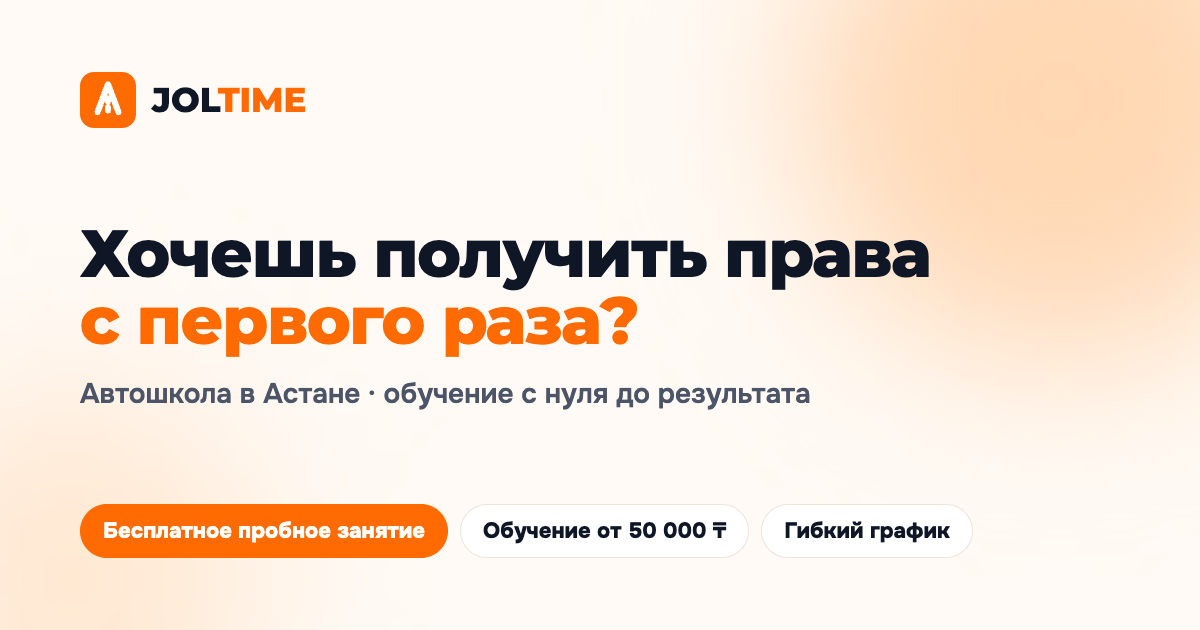
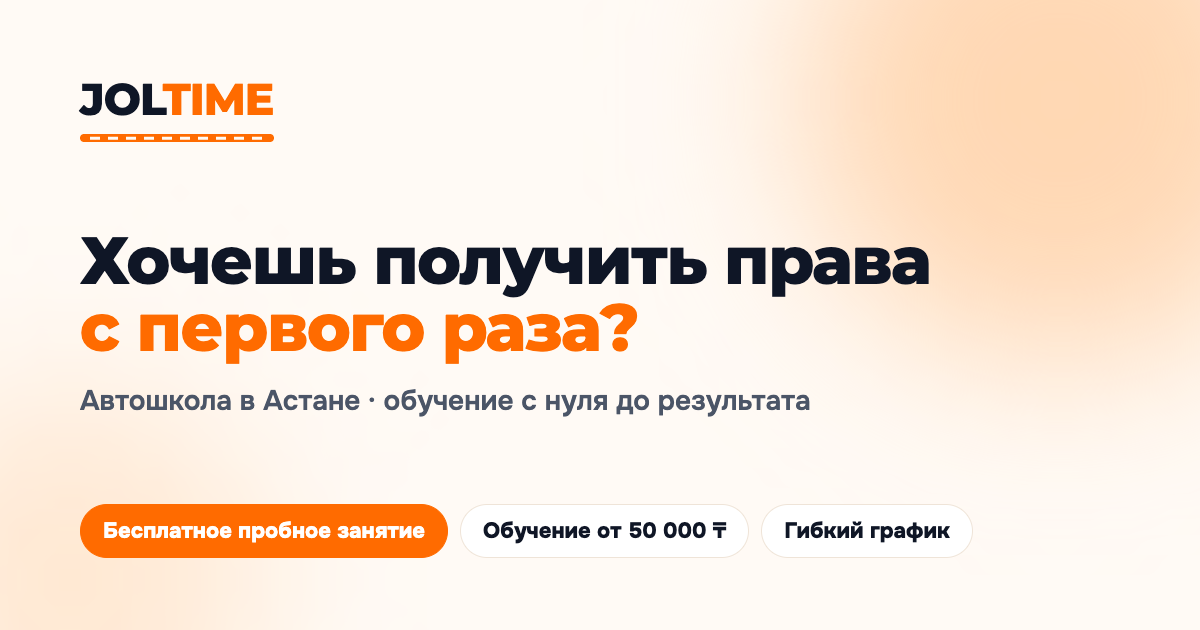
Новый логотип, фавикон J, шесть причин, формулировки пробного занятия
- Логотип: вордмарк JOLTIME с оранжевой дорожкой-разметкой (анимация при загрузке и наведении)
- Фавикон и иконка для iOS: белая J на оранжевом квадрате; обновлён og.png
- «Почему мы»: шесть причин
- Пробное занятие без уточнения «по теории»; README обновлён

Changed region(s): [[0.0617, 0.3619, 0.7708, 0.573], [0.0617, 0.6032, 0.6783, 0.6635], [0.0617, 0.0905, 0.2775, 0.2413]]

diff --git a/src/i18n/ru.ts b/src/i18n/ru.ts
@@ -24,12 +24,12 @@ export const ru = {
   meta: {
     title: 'JOLTIME — автошкола в Астане. Права с первого раза',
     description:
-      'Автошкола JOLTIME в Астане: обучение с нуля до результата, бесплатное пробное занятие по теории, гибкий график, рейтинг 5,0 на 2GIS. Запишитесь в WhatsApp.',
+      'Автошкола JOLTIME в Астане: обучение с нуля до результата, бесплатное пробное занятие, гибкий график, рейтинг 5,0 на 2GIS. Запишитесь в WhatsApp.',
     ogTitle: 'JOLTIME — автошкола в Астане',
-    ogDescription: 'Хочешь получить права с первого раза? Обучение с нуля до результата. Бесплатное пробное занятие по теории.',
+    ogDescription: 'Хочешь получить права с первого раза? Обучение с нуля до результата. Бесплатное пробное занятие.',
   },
   common: {
-    waDefault: 'Здравствуйте! Хочу записаться на бесплатное пробное занятие по теории в JOLTIME.',
+    waDefault: 'Здравствуйте! Хочу записаться на бесплатное пробное занятие в JOLTIME.',
     signUp: 'Записаться',
     signUpWa: 'Записаться в WhatsApp',
     signUpFree: 'Записаться бесплатно',
@@ -58,21 +58,21 @@ export const ru = {
     badge: 'Автошкола в Астане · набор открыт',
     titleStart: 'Хочешь получить права',
     titleAccent: 'с первого раза?',
-    lead: '**Обучение с нуля до результата.** Терпеливые инструкторы, гибкий график и **бесплатное пробное занятие по теории** — убедитесь сами, что ПДД проще, чем кажется.',
+    lead: '**Обучение с нуля до результата.** Терпеливые инструкторы, гибкий график и **бесплатное пробное занятие** — убедитесь сами, что учиться проще, чем кажется.',
     ctaPrimary: 'Записаться на пробное занятие',
     ctaSecondary: 'Смотреть цены',
     trustReviews: 'Рейтинг {rating} на 2GIS',
     trustNoFees: 'Без скрытых платежей',
     cardTitle: 'Водительское удостоверение',
     cardPassed: 'Сдано с 1-го раза',
-    badgeTrialLabel: 'Пробная теория',
+    badgeTrialLabel: 'Пробное занятие',
     badgeTrialValue: 'бесплатно',
     badgeBranchesLabel: 'Правый берег',
     badgeBranchesValue: 'БЦ «Аружан»',
     stats: [
       { value: '50 000 ₸', label: 'обучение от' },
       { value: 'с нуля', label: 'до результата' },
-      { value: '0 ₸', label: 'пробная теория' },
+      { value: '0 ₸', label: 'пробное занятие' },
       { value: 'B', label: 'категория' },
     ],
   },
@@ -83,7 +83,7 @@ export const ru = {
   },
   marquee: [
     'Права с первого раза',
-    'Бесплатная пробная теория',
+    'Бесплатное пробное занятие',
     'Обучение с нуля',
     'Правый берег · БЦ «Аружан»',
     'Обучение от 50 000 ₸',
@@ -96,13 +96,13 @@ export const ru = {
     titleStart: 'Учим не сдавать экзамен, а',
     titleAccent: 'уверенно водить',
     p1: 'Миссия JOLTIME — помочь жителям Астаны **выучить ПДД и научиться безопасно водить**, а не просто зазубрить билеты. Мы хотим, чтобы каждый наш выпускник чувствовал себя за рулём спокойно и с первого дня после получения прав.',
-    p2: 'Мы делаем ставку на **терпеливых инструкторов**, современные онлайн-материалы и честные условия: бесплатное пробное занятие по теории, гибкий график и поэтапную оплату.',
+    p2: 'Мы делаем ставку на **терпеливых инструкторов**, современные онлайн-материалы и честные условия: бесплатное пробное занятие, гибкий график и поэтапную оплату.',
     quote: '«Права с первого раза — это не удача. Это система подготовки».',
     quoteAuthor: 'Команда JOLTIME',
   },
   why: {
     eyebrow: 'Почему стоит учиться у нас',
-    titleStart: 'Семь причин выбрать',
+    titleStart: 'Шесть причин выбрать',
     titleAccent: 'JOLTIME',
     text: 'Мы убрали всё, что раздражает в автошколах: жёсткий график, крики инструктора и скрытые доплаты.',
     items: [
@@ -120,11 +120,6 @@ export const ru = {
         icon: 'HeartHandshake',
         title: 'Инструкторы, которые не кричат',
         text: 'Спокойно, терпеливо и по делу. Ученики отмечают это в каждом втором отзыве.',
-      },
-      {
-        icon: 'MapPinned',
-        title: 'Удобно добираться',
-        text: 'Филиал на Правом берегу в БЦ «Аружан», ул. Ильяса Жансугурова, 8/2. Практика проходит по районам Астаны.',
       },
       {
         icon: 'Wallet',
@@ -148,11 +143,11 @@ export const ru = {
     titleStart: 'Четыре шага',
     titleAccent: 'до прав',
     text: 'Классическая зубрёжка знаков с доски давно устарела. У нас — **интерактивная теория**, тесты в формате СпецЦОН и практика, выстроенная вокруг реального экзамена.',
-    cta: 'Начать с пробной теории',
+    cta: 'Начать с пробного занятия',
     steps: [
       {
-        title: 'Бесплатное пробное занятие по теории',
-        text: 'Приходите на урок теории, знакомитесь с преподавателем и форматом обучения. Решаете, подходим ли мы вам — без обязательств.',
+        title: 'Бесплатное пробное занятие',
+        text: 'Приходите, знакомитесь с преподавателем и форматом обучения. Решаете, подходим ли мы вам — без обязательств.',
       },
       {
         title: 'Теория без зубрёжки',
@@ -251,7 +246,7 @@ export const ru = {
       },
       {
         q: 'Пробное занятие действительно бесплатное?',
-        a: 'Да. Пробное занятие проходит по теории: вы знакомитесь с преподавателем и форматом уроков. Ничего платить и подписывать не нужно.',
+        a: 'Да. Вы знакомитесь с преподавателем и форматом занятий. Ничего платить и подписывать не нужно.',
       },
       {
         q: 'Можно оплачивать частями?',
@@ -268,7 +263,7 @@ export const ru = {
     ],
   },
   cta: {
-    titleLine1: 'Пробная теория — бесплатно.',
+    titleLine1: 'Первое занятие — бесплатно.',
     titleLine2: 'Поехали?',
     text: 'Напишите в WhatsApp — подберём пакет, время и инструктора. Ответим в течение нескольких минут в рабочее время.',
   },

diff --git a/src/i18n/kk.ts b/src/i18n/kk.ts
@@ -5,12 +5,12 @@ export const kk: Dictionary = {
   meta: {
     title: 'JOLTIME — Астанадағы автомектеп. Куәлік бірінші реттен',
     description:
-      'Астанадағы JOLTIME автомектебі: нөлден нәтижеге дейін оқыту, теориядан тегін сынақ сабағы, икемді кесте, 2GIS-тегі рейтинг 5,0. WhatsApp арқылы жазылыңыз.',
+      'Астанадағы JOLTIME автомектебі: нөлден нәтижеге дейін оқыту, тегін сынақ сабағы, икемді кесте, 2GIS-тегі рейтинг 5,0. WhatsApp арқылы жазылыңыз.',
     ogTitle: 'JOLTIME — Астанадағы автомектеп',
-    ogDescription: 'Жүргізуші куәлігін бірінші реттен алғыңыз келе ме? Нөлден нәтижеге дейін оқыту. Теориядан тегін сынақ сабағы.',
+    ogDescription: 'Жүргізуші куәлігін бірінші реттен алғыңыз келе ме? Нөлден нәтижеге дейін оқыту. Тегін сынақ сабағы.',
   },
   common: {
-    waDefault: 'Сәлеметсіз бе! JOLTIME-да теориядан тегін сынақ сабағына жазылғым келеді.',
+    waDefault: 'Сәлеметсіз бе! JOLTIME-да тегін сынақ сабағына жазылғым келеді.',
     signUp: 'Жазылу',
     signUpWa: 'WhatsApp арқылы жазылу',
     signUpFree: 'Тегін жазылу',
@@ -39,21 +39,21 @@ export const kk: Dictionary = {
     badge: 'Астанадағы автомектеп · қабылдау ашық',
     titleStart: 'Куәлікті',
     titleAccent: 'бірінші реттен алғыңыз келе ме?',
-    lead: '**Нөлден нәтижеге дейін оқыту.** Шыдамды нұсқаушылар, икемді кесте және **теориядан тегін сынақ сабағы** — ЖҚЕ ойлағаннан оңай екеніне өзіңіз көз жеткізіңіз.',
+    lead: '**Нөлден нәтижеге дейін оқыту.** Шыдамды нұсқаушылар, икемді кесте және **тегін сынақ сабағы** — оқу ойлағаннан оңай екеніне өзіңіз көз жеткізіңіз.',
     ctaPrimary: 'Сынақ сабағына жазылу',
     ctaSecondary: 'Бағаларды көру',
     trustReviews: '2GIS-тегі рейтинг — {rating}',
     trustNoFees: 'Жасырын төлемдерсіз',
     cardTitle: 'Жүргізуші куәлігі',
     cardPassed: '1-реттен тапсырылды',
-    badgeTrialLabel: 'Сынақ теория',
+    badgeTrialLabel: 'Сынақ сабағы',
     badgeTrialValue: 'тегін',
     badgeBranchesLabel: 'Оң жағалау',
     badgeBranchesValue: '«Аружан» БО',
     stats: [
       { value: '50 000 ₸', label: 'оқу бағасы — бастап' },
       { value: 'нөлден', label: 'нәтижеге дейін' },
-      { value: '0 ₸', label: 'сынақ теория' },
+      { value: '0 ₸', label: 'сынақ сабағы' },
       { value: 'B', label: 'санат' },
     ],
   },
@@ -64,7 +64,7 @@ export const kk: Dictionary = {
   },
   marquee: [
     'Куәлік бірінші реттен',
-    'Тегін сынақ теория',
+    'Тегін сынақ сабағы',
     'Нөлден оқыту',
     'Оң жағалау · «Аружан» БО',
     'Оқу 50 000 ₸-ден',
@@ -77,14 +77,14 @@ export const kk: Dictionary = {
     titleStart: 'Емтихан тапсыруды емес,',
     titleAccent: 'сенімді жүргізуді үйретеміз',
     p1: 'JOLTIME миссиясы — Астана тұрғындарына билеттерді жаттап алуға емес, **ЖҚЕ-ні үйреніп, қауіпсіз жүргізуді меңгеруге** көмектесу. Әр түлегіміз куәлік алған алғашқы күннен бастап рөлде өзін сенімді сезінгенін қалаймыз.',
-    p2: 'Біз **шыдамды нұсқаушыларға**, заманауи онлайн-материалдарға және адал шарттарға сүйенеміз: теориядан тегін сынақ сабағы, икемді кесте және кезең-кезеңмен төлеу.',
+    p2: 'Біз **шыдамды нұсқаушыларға**, заманауи онлайн-материалдарға және адал шарттарға сүйенеміз: тегін сынақ сабағы, икемді кесте және кезең-кезеңмен төлеу.',
     quote: '«Куәлікті бірінші реттен алу — сәттілік емес. Бұл дайындық жүйесі».',
     quoteAuthor: 'JOLTIME командасы',
   },
   why: {
     eyebrow: 'Неліктен бізде оқу керек',
     titleStart: 'JOLTIME-ды таңдаудың',
-    titleAccent: 'жеті себебі',
+    titleAccent: 'алты себебі',
     text: 'Автомектептерде жүйкеге тиетіннің бәрін алып тастадық: қатаң кесте, нұсқаушының айқайы және жасырын қосымша төлемдер.',
     items: [
       {
@@ -101,11 +101,6 @@ export const kk: Dictionary = {
         icon: 'HeartHandshake',
         title: 'Айқайламайтын нұсқаушылар',
         text: 'Сабырлы, шыдамды және нақты. Оқушылар мұны әр екінші пікірде атап өтеді.',
-      },
-      {
-        icon: 'MapPinned',
-        title: 'Жетуге ыңғайлы',
-        text: 'Оң жағалаудағы «Аружан» бизнес-орталығы, Ілияс Жансүгіров көшесі, 8/2. Практика Астананың аудандары бойынша өтеді.',
       },
       {
         icon: 'Wallet',
@@ -129,11 +124,11 @@ export const kk: Dictionary = {
     titleStart: 'Куәлікке дейінгі',
     titleAccent: 'төрт қадам',
     text: 'Тақтадан белгілерді жаттау әдісі баяғыда ескірді. Бізде — **интерактивті теория**, СпецЦОН форматындағы тестілер және нақты емтиханға құрылған практика.',
-    cta: 'Сынақ теориядан бастау',
+    cta: 'Сынақ сабақтан бастау',
     steps: [
       {
-        title: 'Теориядан тегін сынақ сабағы',
-        text: 'Теория сабағына келіп, оқытушымен және оқу форматымен танысасыз. Бізді таңдау-таңдамауды өзіңіз шешесіз — ешқандай міндеттемесіз.',
+        title: 'Тегін сынақ сабағы',
+        text: 'Келіп, оқытушымен және оқу форматымен танысасыз. Бізді таңдау-таңдамауды өзіңіз шешесіз — ешқандай міндеттемесіз.',
       },
       {
         title: 'Жаттаусыз теория',
@@ -232,7 +227,7 @@ export const kk: Dictionary = {
       },
       {
         q: 'Сынақ сабағы шынымен тегін бе?',
-        a: 'Иә. Сынақ сабағы теориядан өтеді: оқытушымен және сабақ форматымен танысасыз. Ештеңе төлеудің де, қол қоюдың да қажеті жоқ.',
+        a: 'Иә. Оқытушымен және сабақ форматымен танысасыз. Ештеңе төлеудің де, қол қоюдың да қажеті жоқ.',
       },
       {
         q: 'Бөліп төлеуге бола ма?',
@@ -249,7 +244,7 @@ export const kk: Dictionary = {
     ],
   },
   cta: {
-    titleLine1: 'Сынақ теория — тегін.',
+    titleLine1: 'Алғашқы сабақ — тегін.',
     titleLine2: 'Кеттік пе?',
     text: 'WhatsApp-қа жазыңыз — пакетті, уақытты және нұсқаушыны таңдап береміз. Жұмыс уақытында бірнеше минут ішінде жауап береміз.',
   },

diff --git a/src/components/ui/Logo.tsx b/src/components/ui/Logo.tsx
@@ -3,45 +3,27 @@ import { SECTION_IDS } from '../../config/site'
 import { useLocale } from '../../i18n/useLocale'
 
 /**
- * Логотип-вордмарк: оранжевый значок дороги + JOLTIME.
- * При загрузке дорога «рисуется», при наведении значок чуть наклоняется, а разметка бежит.
+ * Логотип-вордмарк: JOL + оранжевое TIME, под словом — «дорожка» с разметкой.
+ * При загрузке дорожка выезжает слева направо, при наведении разметка бежит (см. .logo-road в index.css).
+ * Фавикон — отдельный знак (белая J на оранжевом квадрате, public/favicon.svg).
  */
 export function Logo({ className = '' }: { className?: string }) {
   const { t } = useLocale()
   const reduced = useReducedMotion()
 
   return (
-    <a href={`#${SECTION_IDS.top}`} aria-label={t.common.toHome} className={`group flex items-center gap-2 ${className}`}>
-      <svg
-        viewBox="0 0 64 64"
-        className="h-9 w-9 transition-transform duration-300 ease-out group-hover:-rotate-6 group-hover:scale-105 motion-reduce:transition-none"
-        aria-hidden="true"
-      >
-        <rect width="64" height="64" rx="16" fill="#FF6B00" />
-        <motion.path
-          d="M20 46 L32 14 L44 46"
-          stroke="#fff"
-          strokeWidth="7"
-          strokeLinecap="round"
-          strokeLinejoin="round"
-          fill="none"
-          initial={reduced ? false : { pathLength: 0 }}
-          animate={{ pathLength: 1 }}
-          transition={{ duration: 0.9, ease: 'easeOut', delay: 0.1 }}
-        />
-        <path
-          d="M32 30v16"
-          stroke="#fff"
-          strokeWidth="7"
-          strokeLinecap="round"
-          strokeDasharray="4 6"
-          className="group-hover:animate-logo-dash motion-reduce:animate-none"
-        />
-      </svg>
-      <span className="font-display text-lg font-extrabold tracking-tight text-ink">
+    <a href={`#${SECTION_IDS.top}`} aria-label={t.common.toHome} className={`group inline-flex flex-col gap-[5px] ${className}`}>
+      <span className="font-display text-[1.45rem] font-extrabold leading-none tracking-tight text-ink">
         JOL
         <span className="inline-block text-brand-500 transition-transform duration-300 group-hover:translate-x-0.5 motion-reduce:transition-none">TIME</span>
       </span>
+      <motion.span
+        aria-hidden="true"
+        initial={reduced ? false : { scaleX: 0 }}
+        animate={{ scaleX: 1 }}
+        transition={{ duration: 0.7, ease: 'easeOut', delay: 0.15 }}
+        className="logo-road relative block h-[5px] origin-left overflow-hidden rounded-full bg-brand-500"
+      />
     </a>
   )
 }

diff --git a/src/components/sections/WhyUs.tsx b/src/components/sections/WhyUs.tsx
@@ -1,10 +1,10 @@
-import { CalendarClock, GraduationCap, HeartHandshake, MapPinned, MonitorSmartphone, Target, Wallet, type LucideIcon } from 'lucide-react'
+import { CalendarClock, GraduationCap, HeartHandshake, MonitorSmartphone, Target, Wallet, type LucideIcon } from 'lucide-react'
 import { Reveal, SectionTitle } from '../ui'
 import { useLocale } from '../../i18n/useLocale'
 import { SECTION_IDS } from '../../config/site'
 import { useSpotlight } from '../../hooks/useSpotlight'
 
-const ICONS: Record<string, LucideIcon> = { Target, CalendarClock, HeartHandshake, MapPinned, Wallet, MonitorSmartphone, GraduationCap }
+const ICONS: Record<string, LucideIcon> = { Target, CalendarClock, HeartHandshake, Wallet, MonitorSmartphone, GraduationCap }
 
 export function WhyUs() {
   const { t } = useLocale()
@@ -17,11 +17,11 @@ export function WhyUs() {
       <div className="container-x">
         <SectionTitle eyebrow={w.eyebrow} title={w.titleStart} accent={w.titleAccent} text={w.text} align="center" />
 
-        <div className="mt-8 grid grid-cols-2 gap-3 sm:mt-14 sm:gap-4 lg:grid-cols-4 lg:gap-5">
+        <div className="mt-8 grid grid-cols-2 gap-3 sm:mt-14 sm:gap-4 lg:grid-cols-3 lg:gap-6">
           {w.items.map((item, i) => {
             const Icon = ICONS[item.icon] ?? Target
             return (
-              <Reveal key={item.title} delay={(i % 4) * 0.08}>
+              <Reveal key={item.title} delay={(i % 3) * 0.08}>
                 <article onMouseMove={spotlight} className="spotlight group relative h-full rounded-2xl bg-surface p-4 ring-1 ring-line transition-all duration-300 hover:-translate-y-1 hover:shadow-card hover:ring-brand-200 sm:rounded-3xl sm:p-7">
                   <div className="flex h-10 w-10 items-center justify-center rounded-xl bg-brand-500 sm:h-12 sm:w-12 sm:rounded-2xl text-white shadow-soft transition-transform duration-300 group-hover:-rotate-6 group-hover:scale-105">
                     <Icon className="h-5 w-5 sm:h-6 sm:w-6" aria-hidden="true" />

diff --git a/src/index.css b/src/index.css
@@ -60,7 +60,7 @@
   --animate-float: float 7s ease-in-out infinite;
   --animate-pulse-ring: pulse-ring 2.2s ease-out infinite;
   --animate-shine: shine 4.5s ease-in-out infinite;
-  --animate-logo-dash: logo-dash 0.5s linear infinite;
+  --animate-logo-road: logo-road 0.6s linear infinite;
 
   @keyframes float {
     0%, 100% { transform: translate(-50%, -50%) rotate(-2deg); }
@@ -70,8 +70,8 @@
     0%, 70% { transform: translateX(-130%) skewX(-18deg); }
     100% { transform: translateX(230%) skewX(-18deg); }
   }
-  @keyframes logo-dash {
-    to { stroke-dashoffset: -10; }
+  @keyframes logo-road {
+    to { background-position-x: 11px; }
   }
   @keyframes pulse-ring {
     0% { transform: scale(1); opacity: 0.6; }
@@ -119,6 +119,20 @@ body {
     animation: var(--animate-shine);
     pointer-events: none;
   }
+}
+
+/* Разметка на «дорожке» логотипа; при наведении на логотип бежит */
+@utility logo-road {
+  &::after {
+    content: '';
+    position: absolute;
+    inset: 0 6px;
+    top: 50%;
+    height: 1.5px;
+    transform: translateY(-50%);
+    background: repeating-linear-gradient(90deg, var(--paper) 0 6px, transparent 6px 11px);
+  }
+  .group:hover &::after { animation: var(--animate-logo-road); }
 }
 
 /* «Фонарик» под курсором — см. hooks/useSpotlight.ts */

diff --git a/README.md b/README.md
@@ -80,7 +80,7 @@ vercel.json               — то же для Vercel
 
 | Эффект | Где |
 |---|---|
-| Логотип: дорога «рисуется» при загрузке, при наведении значок наклоняется и разметка бежит | `components/ui/Logo.tsx` + keyframes `logo-dash` |
+| Логотип: буква J «рисуется» при загрузке, при наведении значок наклоняется, по нему пробегает блик, J подпрыгивает | `components/ui/Logo.tsx` (та же J, что в `public/favicon.svg`) |
 | Полоска прогресса чтения сверху | `components/layout/ScrollProgress.tsx` |
 | Появление блоков при скролле | `components/ui/Reveal.tsx` |
 | Заголовки секций по словам | `components/ui/SectionTitle.tsx` |
